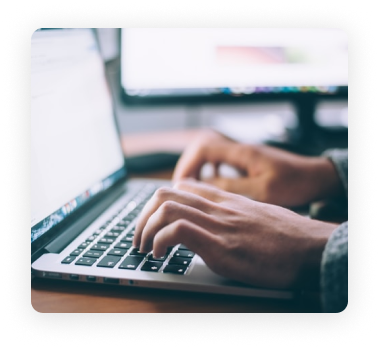
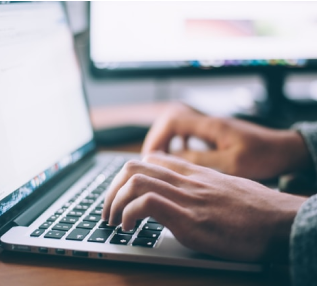
update gallery images

diff --git a/src/components/sections/Gallery.jsx b/src/components/sections/Gallery.jsx
@@ -23,8 +23,8 @@ function Gallery () {
             </Fade>
             <div className="flex justify-center">
                 <Fade bottom>
-                    <p className="my-3 lg:mt-8 lg:mb-14 leading-relaxed lg:leading-normal f-regular text-xs lg:text-lg w-44 lg:w-[500px]">
-                        We focus on ergonomics and meeting you where you work. 
+                    <p className="my-3 lg:mt-8 lg:mb-14 leading-relaxed lg:leading-normal f-regular text-xs lg:text-lg w-56 lg:w-[500px]">
+                        We focus on ergonomics and meeting you where you work. <br /> 
                         It's only a keystroke away.
                     </p>
                 </Fade>
@@ -34,12 +34,27 @@ function Gallery () {
                     firstDivOnDesktop.map((image, index) => (
                         <>
                             <Bounce left>
-                            <img
-                                src={image}
-                                className="rounded-xl h-60 gallery-shadow"
-                                alt={'card ' + index}
-                            />
+                                <img
+                                    src={image}
+                                    className="rounded-xl h-60 gallery-shadow"
+                                    alt={'card ' + index}
+                                />
                             </Bounce>                            
+                        </>
+                    ))
+                }
+            </div>
+            <div className="flex flex-col items-center lg:hidden gap-y-5 mt-4">
+                {
+                    mobileCards.map((image, index) => (
+                        <>
+                            <Bounce left>
+                                <img
+                                    src={image}
+                                    className="rounded-md h-40 gallery-shadow"
+                                    alt={'card ' + index}
+                                />
+                            </Bounce>
                         </>
                     ))
                 }
